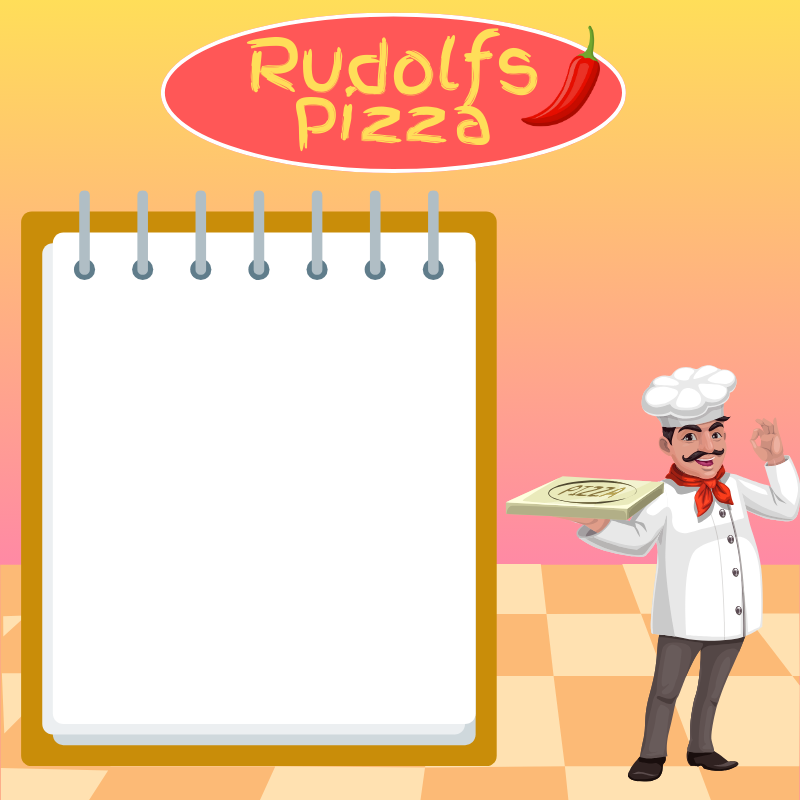
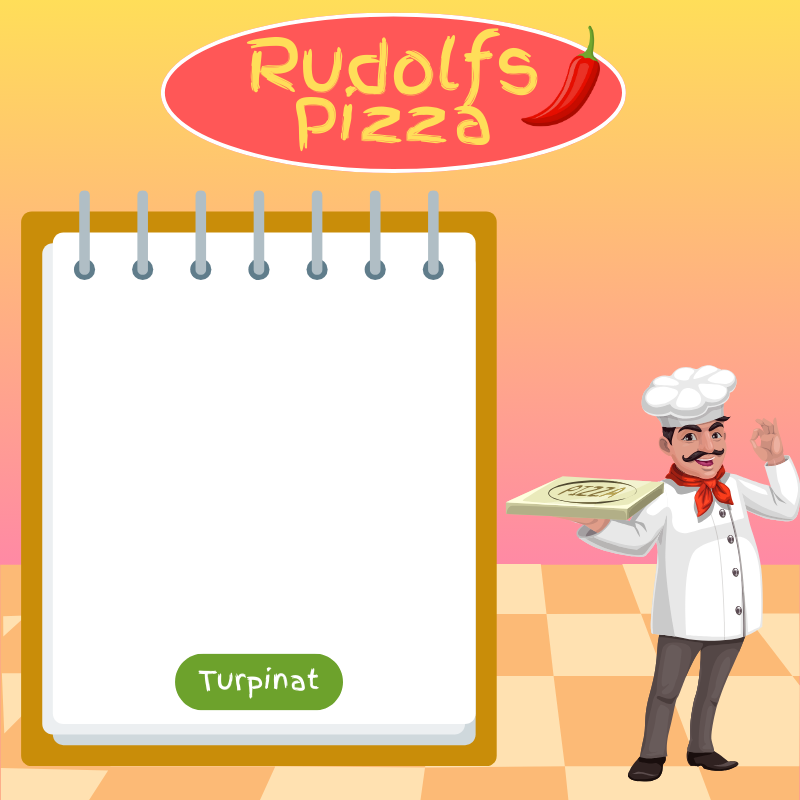
Pievienoju 3. logā raidoButton picu izvelei un Turpinat pogu

Changed region(s): [[0.2188, 0.8125, 0.4375, 0.9062]]

diff --git a/src/lvt/Main3.java b/src/lvt/Main3.java
@@ -1,18 +1,37 @@
 package lvt;
 
+import java.awt.Color;
 import java.awt.EventQueue;
+import java.awt.Font;
 import java.awt.Image;
+import java.awt.event.ActionEvent;
+import java.awt.event.ActionListener;
 
+import javax.swing.ButtonGroup;
 import javax.swing.ImageIcon;
 import javax.swing.JFrame;
-import javax.swing.JPanel;
-import javax.swing.border.EmptyBorder;
 import javax.swing.JLabel;
+import javax.swing.JPanel;
+import javax.swing.JRadioButton;
+import javax.swing.JTextField;
+import javax.swing.border.EmptyBorder;
+import javax.swing.border.LineBorder;
+import javax.swing.JButton;
 
 public class Main3 extends JFrame {
 
 	private static final long serialVersionUID = 1L;
 	private JPanel contentPane;
+	private JTextField textField;
+	private JLabel lblNewLabel_2;
+	private JRadioButton rdbtnNewRadioButton_1;
+	private JRadioButton rdbtnNewRadioButton_2;
+	private JRadioButton rdbtnNewRadioButton_3;
+	private JRadioButton rdbtnNewRadioButton_4;
+	private JRadioButton rdbtnNewRadioButton_5;
+	private JRadioButton rdbtnNewRadioButton;
+	private JButton btnNewButton;
+	private JButton btnNewButton_1;
 
 	/**
 	 * Launch the application.
@@ -34,6 +53,12 @@ public class Main3 extends JFrame {
 	 * Create the frame.
 	 */
 	public Main3() {
+		
+		
+		
+		
+		int kluda = 0;
+		
 		setDefaultCloseOperation(JFrame.EXIT_ON_CLOSE);
 		setBounds(100, 100, 800, 800);
 		contentPane = new JPanel();
@@ -44,9 +69,87 @@ public class Main3 extends JFrame {
 		
 		JLabel lblNewLabel = new JLabel("");
 		Image bilde = new ImageIcon(this.getClass().getResource("/Main3.png")).getImage();
+		
+		ButtonGroup buttonGroup = new ButtonGroup(); 
+		
+	
+		
+		rdbtnNewRadioButton = new JRadioButton("Lauku");
+		rdbtnNewRadioButton.setOpaque(false);
+		rdbtnNewRadioButton.setFont(new Font("Trebuchet MS", Font.ITALIC, 16));
+		rdbtnNewRadioButton.setBounds(182, 320, 109, 23);
+		contentPane.add(rdbtnNewRadioButton);
+		buttonGroup.add(rdbtnNewRadioButton);
+		
+		btnNewButton_1 = new JButton("");
+		btnNewButton_1.addActionListener(new ActionListener(){
+	        	
+
+				@Override
+				public void actionPerformed(ActionEvent e) {
+					
+				} 
+	        });
+		btnNewButton_1.setBounds(177, 630, 165, 61);
+		btnNewButton_1.setOpaque(false); 
+		btnNewButton_1.setContentAreaFilled(false); 
+		btnNewButton_1.setBorderPainted(false);
+		btnNewButton_1.setBorder(new LineBorder(new Color(255, 255, 255, 100), 2));
+		contentPane.add(btnNewButton_1);
+		
+		rdbtnNewRadioButton_4 = new JRadioButton("Salami");
+		rdbtnNewRadioButton_4.setOpaque(false);
+		rdbtnNewRadioButton_4.setFont(new Font("Trebuchet MS", Font.ITALIC, 16));
+		rdbtnNewRadioButton_4.setBounds(182, 425, 109, 23);
+		contentPane.add(rdbtnNewRadioButton_4);
+		buttonGroup.add(rdbtnNewRadioButton_4);
+		
+		rdbtnNewRadioButton_3 = new JRadioButton("Margarita");
+		rdbtnNewRadioButton_3.setOpaque(false);
+		rdbtnNewRadioButton_3.setFont(new Font("Trebuchet MS", Font.ITALIC, 16));
+		rdbtnNewRadioButton_3.setBounds(182, 399, 109, 23);
+		contentPane.add(rdbtnNewRadioButton_3);
+		buttonGroup.add(rdbtnNewRadioButton_3);
+		
+		rdbtnNewRadioButton_2 = new JRadioButton("Šķiņķa");
+		rdbtnNewRadioButton_2.setOpaque(false);
+		rdbtnNewRadioButton_2.setFont(new Font("Trebuchet MS", Font.ITALIC, 16));
+		rdbtnNewRadioButton_2.setBounds(182, 373, 109, 23);
+		contentPane.add(rdbtnNewRadioButton_2);
+		buttonGroup.add(rdbtnNewRadioButton_2);
+		
+	
+		lblNewLabel_2 = new JLabel("Picas veids:");
+		lblNewLabel_2.setFont(new Font("Trebuchet MS", Font.BOLD, 18));
+		lblNewLabel_2.setBounds(74, 310, 201, 36);
+		contentPane.add(lblNewLabel_2);
+		
+		textField = new JTextField();
+		if (textField == null)
+			kluda += 1;
+		textField.setFont(new Font("Trebuchet MS", Font.ITALIC, 18));
+		textField.setOpaque(false);
+		textField.setBorder(new LineBorder(new Color(255, 255, 255, 100), 1, true));
+		textField.setBounds(278, 271, 186, 20);
+		contentPane.add(textField);
+		textField.setColumns(10);
+		
+		JLabel lblNewLabel_1 = new JLabel("Pasūtījuma nosaukums:");
+		lblNewLabel_1.setFont(new Font("Trebuchet MS", Font.BOLD, 18));
+		lblNewLabel_1.setBounds(74, 263, 201, 36);
+		contentPane.add(lblNewLabel_1);
+		
+		rdbtnNewRadioButton_1 = new JRadioButton("Pikantā");
+		rdbtnNewRadioButton_1.setOpaque(false);
+		rdbtnNewRadioButton_1.setFont(new Font("Trebuchet MS", Font.ITALIC, 16));
+		rdbtnNewRadioButton_1.setBounds(182, 346, 109, 23);
+		contentPane.add(rdbtnNewRadioButton_1);
+		buttonGroup.add(rdbtnNewRadioButton_1);
 		lblNewLabel.setIcon(new ImageIcon(bilde));
 		lblNewLabel.setBounds(0, 0, 784, 761);
 		contentPane.add(lblNewLabel);
+		
+		if (rdbtnNewRadioButton_1 == null || rdbtnNewRadioButton_2 == null || rdbtnNewRadioButton_3 == null || rdbtnNewRadioButton_4 == null || rdbtnNewRadioButton == null)
+			kluda += 1;
 	}
-
 }
